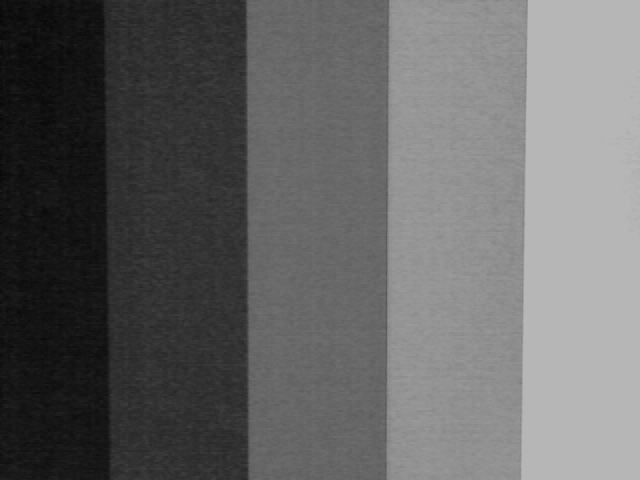
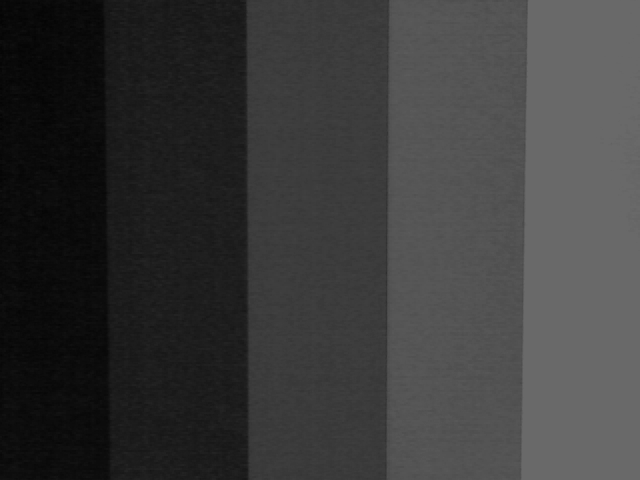
normierung

diff --git a/data/old/task3.1.py b/data/old/task3.1.py
@@ -6,7 +6,6 @@ import cv2
 vec = np.zeros((10, 3079000))
 anzahl = 0
 mean = 0
-value = 0
 
 vec1 = np.zeros((480, 640))
 vec2 = np.zeros((480, 640))
@@ -28,19 +27,25 @@ for x in range(0, 10):
     whitepic[x] = cv2.cvtColor(whitepic[x], cv2.COLOR_BGR2GRAY)
 
     print("Datei: " + str(x + 1) + ".png erfolgreich")
-    b, g, r, a = cv2.mean(whitepic[x])
-    print("Der Durchschnitt der Datei liegt bei " + str(b))
+    for y in range(0, 480):
+        for z in range(0, 640):
+            b = whitepic[x][y, z]
+            vector[x][y, z] = b
+            anzahl += 1
     print("-----------------------------------")
 
-    value += b
-
-value /= 10
-print(b)
+for y in range(0, 480):
+    for z in range(0, 640):
+        mean = 0
+        for file in range(0, 10):
+            mean += vector[file][y, z]
+        mean = float(mean / 10)
+        average[y, z] = mean
 
 image = cv2.imread("data/whiteaverage.png")
 for x in range(0, 480):
     for y in range(0, 640):
-        image[x, y] = b
+        image[x, y] = average[x, y]
 
 cv2.imwrite("data/whiteaverage.png", image)
 cv2.imshow('image', image)

diff --git a/task3.1.py b/task3.1.py
@@ -6,6 +6,7 @@ import cv2
 vec = np.zeros((10, 3079000))
 anzahl = 0
 mean = 0
+value = 0
 
 vec1 = np.zeros((480, 640))
 vec2 = np.zeros((480, 640))
@@ -27,25 +28,19 @@ for x in range(0, 10):
     whitepic[x] = cv2.cvtColor(whitepic[x], cv2.COLOR_BGR2GRAY)
 
     print("Datei: " + str(x + 1) + ".png erfolgreich")
-    for y in range(0, 480):
-        for z in range(0, 640):
-            b = whitepic[x][y, z]
-            vector[x][y, z] = b
-            anzahl += 1
+    b, g, r, a = cv2.mean(whitepic[x])
+    print("Der Durchschnitt der Datei liegt bei " + str(b))
     print("-----------------------------------")
 
-for y in range(0, 480):
-    for z in range(0, 640):
-        mean = 0
-        for file in range(0, 10):
-            mean += vector[file][y, z]
-        mean = float(mean / 10)
-        average[y, z] = mean
+    value += b
+
+value /= 10
+print(b)
 
 image = cv2.imread("data/whiteaverage.png")
 for x in range(0, 480):
     for y in range(0, 640):
-        image[x, y] = average[x, y]
+        image[x, y] = b
 
 cv2.imwrite("data/whiteaverage.png", image)
 cv2.imshow('image', image)

diff --git a/task3.3.py b/task3.3.py
@@ -1,20 +1,33 @@
 import numpy as np
 import cv2
+import math
 
 # ------------------------------ Aufgabe2.2 ------------------------------ #
 
 korrigiertes_bild = np.zeros((480, 640))
+norm = 0
 
 grey = cv2.imread('data/Versuch1a.png')
 image = cv2.cvtColor(grey, cv2.COLOR_BGR2GRAY)
 blackavg = cv2.imread('data/blackaverage.png')
+whiteavg = cv2.imread('data/whiteaverage.png')
 
+b, g, r, a = cv2.mean(whiteavg)
+
+
+norm = b ** 2 + g ** 2 + r ** 2
+norm = math.sqrt(norm)
+b = b / norm
 
 for y in range(0, 480):
     for z in range(0, 640):
         r1, g1, b1 = grey[y, z]
         r2, g2, b2 = blackavg[y, z]
         korrigiertes_bild[y, z] = int(r1) - int(r2)
+        print("----------------------------------")
+        print(korrigiertes_bild[y, z])
+        korrigiertes_bild[y, z] *= b
+        print(korrigiertes_bild[y, z])
 
 image = cv2.imread("data/korrigiertes_bild2.png")
 for x in range(0, 480):
